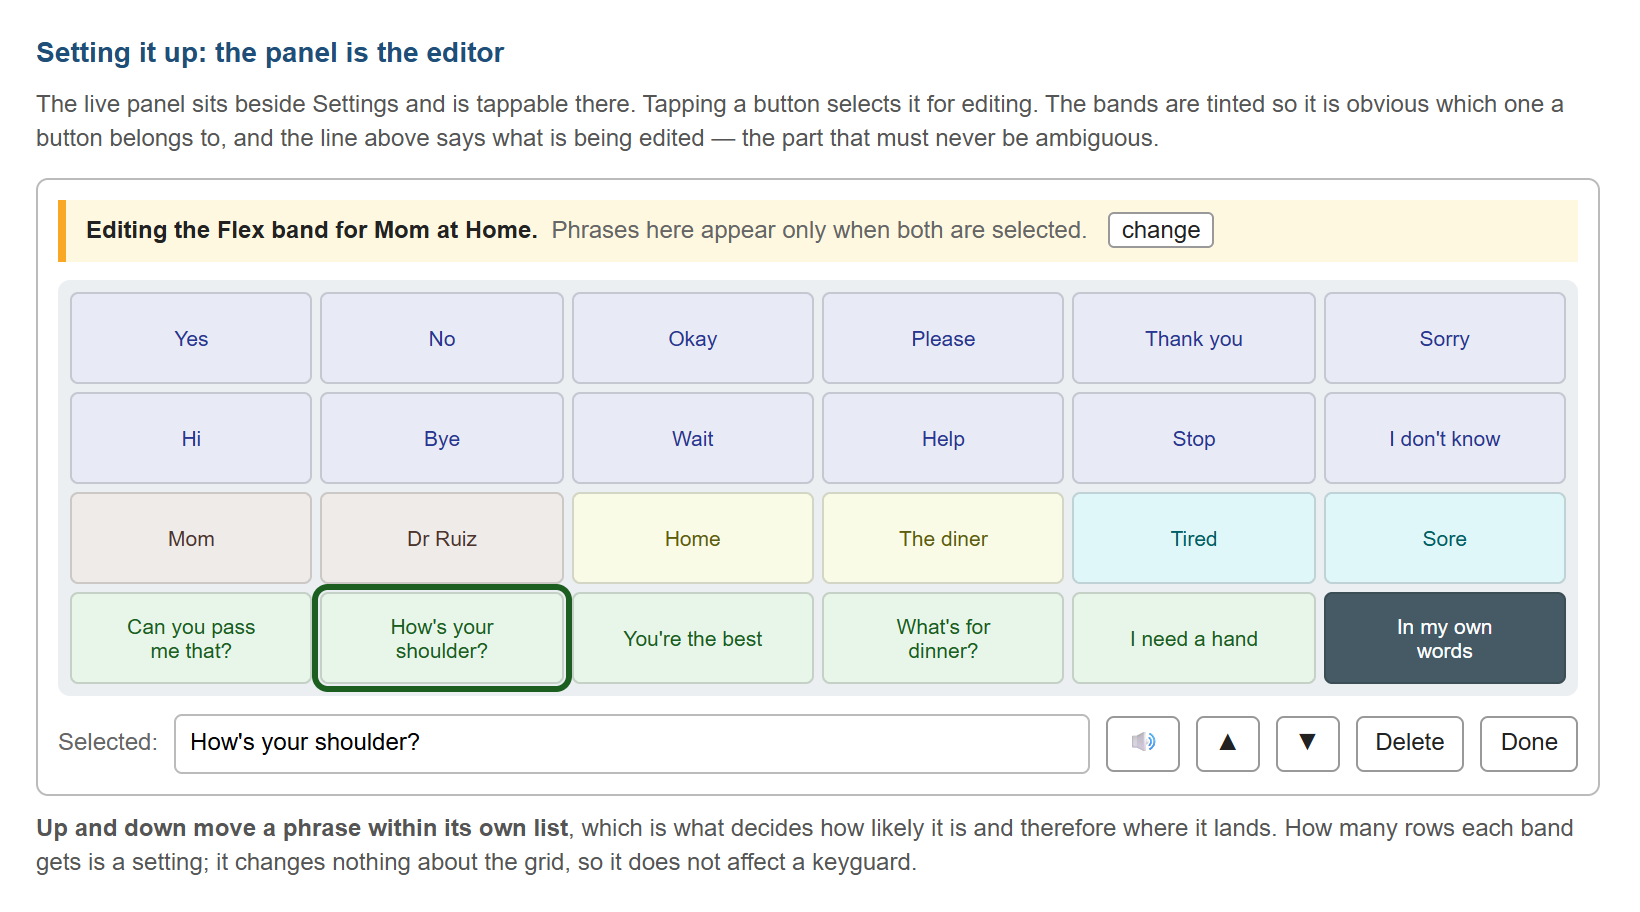
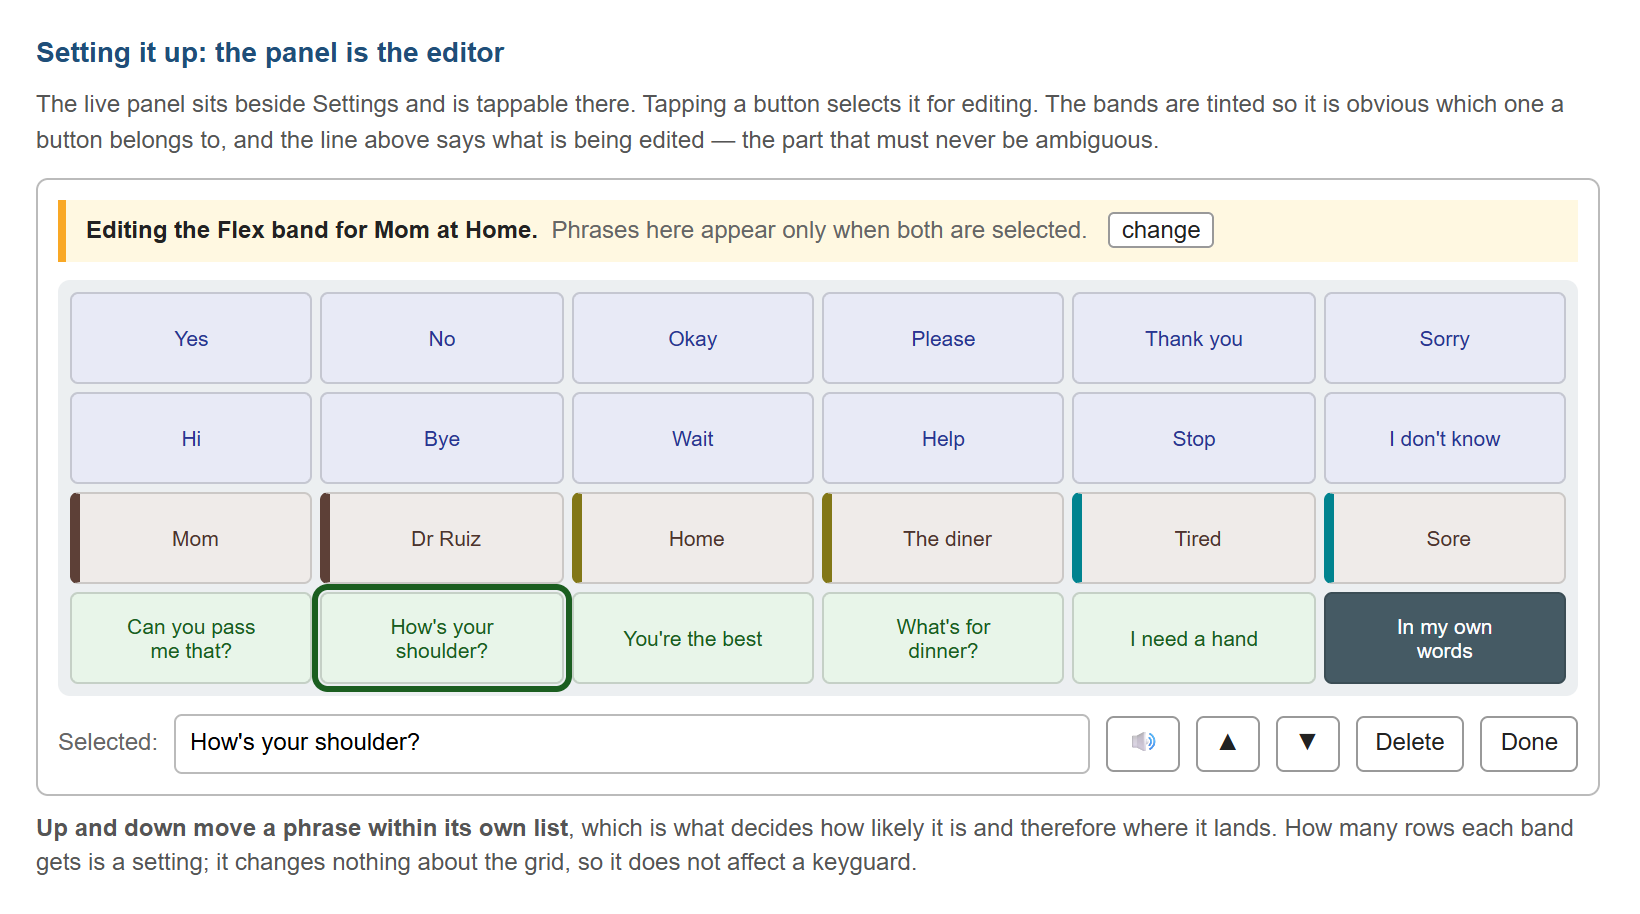
Widen the American-spelling test past the app
Ken found "colour" eight times in a prototype and a figure source written
an hour earlier. The rule was never unclear -- it was unenforced
everywhere except the app, so the documents' own source, the images
inside them, and a prototype about to be sent to therapists had nothing
checking them.

Widening it immediately exposed a bug in the detector: "programming" was
flagged, because programme/program is a real pair but the -ing form
doubles the m in American English too.

One exemption, by exact phrase rather than by file: a test persona is
Irish on purpose, so "the shopping centre" and "on the telly" are his
words. A "colour" in that file still fails.

diff --git a/prototypes/express-bands.html b/prototypes/express-bands.html
@@ -26,8 +26,9 @@
     --always:#e8eaf6; --always-ink:#283593;
     --flex:#e8f5e9;   --flex-ink:#1B5E20;
     --ctx:#efebe9;    --ctx-ink:#4E342E;
-    --place:#f9fbe7;  --place-ink:#5d5d10;
-    --feel:#e0f7fa;   --feel-ink:#006064;
+    --partner-bar:#5D4037;   /* the KIND of Context button, said with a bar */
+    --place-bar:#827717;
+    --feel-bar:#00838F;
     --imow:#455A64;
     --choice:#2E7D32;
     --gap:5px;
@@ -49,13 +50,22 @@
        display:flex;align-items:center;justify-content:center;text-align:center;
        min-height:var(--cell-h,46px);transition:background .12s,box-shadow .12s;overflow:hidden}
   .btn:active{transform:translateY(1px)}
+  /* ONE BACKGROUND PER BAND (Ken, August 23 2026). The band is what the color
+     says; within the Context band the KIND of button is said by a colored bar down
+     its left edge, not by a different fill - so partner, place and feeling read as
+     one family and stop being mistaken for offered choices. */
   .b-always{background:var(--always);color:var(--always-ink)}
   .b-flex{background:var(--flex);color:var(--flex-ink)}
-  .b-ctx{background:var(--ctx);color:var(--ctx-ink)}
-  .b-place{background:var(--place);color:var(--place-ink)}
-  .b-feel{background:var(--feel);color:var(--feel-ink)}
+  .b-ctx,.b-place,.b-feel{background:var(--ctx);color:var(--ctx-ink)}
+  .b-ctx{border-left:5px solid var(--partner-bar)}
+  .b-place{border-left:5px solid var(--place-bar)}
+  .b-feel{border-left:5px solid var(--feel-bar)}
   .b-imow{background:var(--imow);color:#fff}
-  .b-choice{background:var(--choice);color:#fff;border-color:#1B5E20;font-weight:bold}
+  /* The two exceptions, and they are exceptions on purpose: what the partner has
+     just put on the table is immediate and temporary, so it breaks the band's
+     color deliberately. The two kinds share the fill and differ by border. */
+  .b-choice{background:var(--choice);color:#fff;border:2px solid #1B5E20;font-weight:bold}
+  .b-range{background:var(--choice);color:#fff;border:2px dashed #C8E6C9;font-weight:bold}
   .b-empty{background:#fff;border-style:dashed;border-color:#ccc;color:#ccc;cursor:default}
   .b-gap{background:none;border:none;cursor:default;pointer-events:none}
   .on{box-shadow:inset 0 0 0 3px currentColor}
@@ -86,17 +96,47 @@
   .k-f{background:var(--flex);color:var(--flex-ink)}
   .k-c{background:var(--ctx);color:var(--ctx-ink)}
   .warn{color:#B71C1C;font-size:12px;margin-top:6px}
+  .brief{background:#fff;border:1px solid #d8d8d8;border-left:5px solid #1F4E79;border-radius:8px;
+         padding:14px 18px;margin:0 0 16px;max-width:1010px}
+  .brief h2{font-size:15px;color:#1F4E79;margin:0 0 8px}
+  .brief p{margin:0 0 9px;font-size:13.5px;max-width:none}
+  .brief ol{margin:0 0 9px;padding-left:22px;font-size:13.5px}
+  .brief li{margin-bottom:4px}
+  .brief .small{color:#666;font-size:12.5px;margin-bottom:0}
   label.chk{display:block;font-size:12.5px;color:#444;margin-top:6px;cursor:pointer}
 </style>
 </head>
 <body>
 
-<h1>Express Panel bands &mdash; prototype</h1>
-<p class="lede">Throwaway. Nothing here is the app, but the grid is: all 21 keyboard layouts are the real ones, so the
-number of buttons and where &ldquo;In my own words&rdquo; sits are whatever that layout actually gives you. Pick a
-partner and a place and watch the Flex band refill. The two questions this exists to answer are <b>how many rows each
-band should get</b> and <b>whether a band that reorders itself between situations is tolerable</b> &mdash; the figure
-under the panel measures the second one.</p>
+<h1>Express Panel bands &mdash; a sketch to react to</h1>
+
+<div class="brief">
+<h2>What this is, and what we are asking you</h2>
+<p><b>This is not the app.</b> It is a rough working model of one idea, put on screen so it can be tapped and argued
+with instead of described. The phrases in it are invented. Nothing you do here is saved, and nothing is spoken aloud.</p>
+<p><b>The idea.</b> Conversant AAC has a panel of quick phrases that speak the moment they are tapped. Today every
+button on it is fixed. We are considering splitting it into three <i>bands</i>:</p>
+<ol>
+  <li><b>Always</b> &mdash; yes, no, please, help. Never changes, so it can be found without looking.</li>
+  <li><b>Context</b> &mdash; buttons that <b>never speak</b>. They tell the app who the person is talking to, where they
+      are, and how they feel. This is also where the options a partner has just offered appear.</li>
+  <li><b>Flex</b> &mdash; phrases that suit the person in front of them and the place they are in. The only band whose
+      words change.</li>
+</ol>
+<p><b>Worth trying, in this order:</b> pick a <i>Partner</i> and a <i>Place</i> on the right and watch the bottom band
+refill. Then set &ldquo;the partner puts something on the table&rdquo; to <i>three choices</i>. Then change the keyboard
+layout, and the sizes of the bands.</p>
+<p><b>What would help us most.</b> Is a band whose words change between conversations something a client could learn, or
+would it undo the muscle memory that makes a panel fast? How many buttons does the <i>Always</i> band really need? And
+is the color doing enough work to tell the three bands apart at a glance?</p>
+<p class="small">Everything below the fold is instrumentation for us &mdash; the counts of what moved and the warnings
+about sizes. Ignore it or poke at it as you like.</p>
+</div>
+
+<p class="lede">The grid is real: all 21 of the app's keyboard layouts are here, so the number of buttons and where
+&ldquo;In my own words&rdquo; sits are whatever that layout actually gives you. The two questions this exists to settle
+are <b>how many buttons each band should get</b> and <b>whether a band that reorders itself between situations is
+tolerable</b> &mdash; the figure under the panel measures the second one.</p>
 
 <div class="wrap">
 <div class="stage">
@@ -134,6 +174,10 @@ under the panel measures the second one.</p>
     <p style="font-size:12.5px;margin:0 0 6px"><span class="k k-a">Always</span> never changes.</p>
     <p style="font-size:12.5px;margin:0 0 6px"><span class="k k-c">Context</span> never speaks. Offered choices take its front.</p>
     <p style="font-size:12.5px;margin:0 0 6px"><span class="k k-f">Flex</span> the partner's phrases, then the place's, then the general set. Takes whatever is left over.</p>
+    <p class="note"><b>One background color per band.</b> Inside the Context band the kind of button &mdash; partner,
+    place, feeling &mdash; is said by the colored bar down its left edge, not by a different fill.</p>
+    <p class="note"><b>Two deliberate exceptions:</b> what the partner has just put on the table breaks the band's color,
+    because it is immediate and temporary. Offered choices have a solid border; the number button has a dashed one.</p>
     <p class="note"><b>In my own words</b> is the layout's space key and belongs to no band, so it can never be
     pushed off &mdash; exactly as in the app.</p>
     <p class="note"><b>Band shape.</b> <i>rows</i> gives straight edges but a row is 2 buttons on one layout and 13
@@ -316,7 +360,7 @@ function render() {
         silent = true;
         if (!it) { b = el('button', 'btn b-empty', ''); }
         else {
-          const cls = { choice: 'b-choice', range: 'b-choice', partner: 'b-ctx',
+          const cls = { choice: 'b-choice', range: 'b-range', partner: 'b-ctx',
                         place: 'b-place', feeling: 'b-feel' }[it.kind];
           b = el('button', 'btn ' + cls, it.text);
           if ((it.kind === 'partner' && it.text === partner)

diff --git a/scripts/doc-generators/Express Panel Figures.html b/scripts/doc-generators/Express Panel Figures.html
@@ -7,10 +7,12 @@
     display:flex;align-items:center;justify-content:center;border:1px solid rgba(0,0,0,.15);background:#fff}
  .always{background:#e8eaf6;color:#283593}
  .flex{background:#e8f5e9;color:#1B5E20}
- .ctx{background:#efebe9;color:#4E342E}
- .feel{background:#e0f7fa;color:#006064}
- .place{background:#f9fbe7;color:#5d5d10}
- .chip{background:#2E7D32;color:#fff;border:1px solid #1B5E20;font-weight:bold}
+ .ctx,.place,.feel{background:#efebe9;color:#4E342E}
+ .ctx{border-left:5px solid #5D4037}
+ .place{border-left:5px solid #827717}
+ .feel{border-left:5px solid #00838F}
+ .chip{background:#2E7D32;color:#fff;border:2px solid #1B5E20;font-weight:bold}
+ .chip-num{background:#2E7D32;color:#fff;border:2px dashed #C8E6C9;font-weight:bold}
  .imow{background:#455A64;color:#fff}
  .empty{background:#fafafa;color:#c0c0c0;border:1px dashed #c8c8c8}
  .span4{grid-column:span 4}
@@ -52,7 +54,9 @@
 </p>
 <p class="cap"><b>The dividing line that makes this learnable:</b> a button in the Context band never says anything out loud.
 Everywhere else, a button speaks. Feeling does not fill the Flex band; only the partner and the place do.
-<b>The order is by which band must not move</b>, not by importance.</p>
+<b>The order is by which band must not move</b>, not by importance.<br>
+<b>One background color per band.</b> Inside the Context band the kind of button &mdash; partner, place, feeling &mdash;
+is said by the bar down its left edge, not by a different fill.</p>
 </div>
 
 <div class="fig" id="f2">
@@ -75,7 +79,8 @@ Everywhere else, a button speaks. Feeling does not fill the Flex band; only the 
  <p class="cap"><b>"Is it mild, moderate or severe?"</b> The choices take the front of the Context band, in solid color
  &mdash; immediate and temporary, and this is where the conversation is right now. Nothing that speaks has moved:
  Mom, Home and Tired are covered for the turn and come back when it ends. A question asking for a number puts one
- button in the same place, in the same way.</p>
+ button in the same place, with a dashed border rather than a solid one &mdash; the two kinds of transient share a fill
+and differ by their edge.</p>
  </div>
 </div>
 </div>

diff --git a/CLAUDE.md b/CLAUDE.md
@@ -193,6 +193,7 @@ Ken collected Conversation Analysis (CA) literature and had it synthesized into 
 **Document convention (Ken, June 14 2026; restated August 11 2026): AMERICAN ENGLISH SPELLING ONLY** — "color", "center", "gray", "personalized", "practice", "judgment", "canceled", "maximize", not "colour", "centre", "grey", "personalised", "practise", "judgement", "cancelled", "maximise".
 - **Scope is everything a user reads or hears, not just the `.docx`.** That means every generated document, `CHANGELOG.md` (which becomes the in-app "What's new" notes), `settings-help.json` (which the app **speaks aloud**), and any on-screen string in `app/`. **Code comments are out of scope** — same split as the plain-language rule: their reader is the next developer.
 - **⚠ THIS RULE WAS NOT HOLDING, which is why it is now stated with its failure mode.** Ken asked for it to be noted on August 11 2026; it had been recorded since June 14 2026 and was being broken in **eight documents plus the spoken help and the release notes** — including "colour" in text written into both User Manuals *that same day*, and "practise" in four spoken-help entries the app reads out. The lesson is not that the rule was unclear: it is that **nothing checks it**, and British spellings arrive unnoticed one word at a time.
+- **⚠ THE TEST'S SCOPE WAS TOO NARROW AND IT SHOWED (Ken, August 23 2026, finding “colour” eight times in a prototype and a figure source written an hour earlier).** It covered the app and the release notes, so **everything else a person reads had nothing checking it** — the documents' own source, the images inside them, and a prototype about to be emailed to a team of therapists. **The rule was never unclear; it was unenforced everywhere except the app.** Now also scanned: **string literals in `scripts/doc-generators/*.js`** (that prose IS the documents) and the **visible markup of the `.html` beside them** (captured into the figures), plus **`prototypes/`** — which is MORE exposed than the app, not less, because it goes to people outside the project. **⚠ AND THE WIDENING IMMEDIATELY EXPOSED A DETECTOR BUG worth keeping: “programming” was flagged.** “programme”→“program” is a real pair, but the **-ing and -ed forms double the m in American English too**, so the stem-plus-suffix rule matched a correct word. Any entry whose American form doubles a consonant has the same trap. **One deliberate exemption, listed by exact phrase rather than by file:** a test persona is Irish on purpose (Dublin, a GAA club, Clontarf), so *the shopping centre* and *on the telly* are his words — Americanizing them would make the persona false, exactly as it would a cited institution. A “colour” in that file still fails.
 - **ENFORCED BY `tests/american-spelling.test.mjs`** over everything in git that a user reads or hears: `CHANGELOG.md`, `settings-help.json`, `app/index.html` and the **string literals** in `app/js/*.js` (literals, not whole files, so a comment saying "blue-grey" cannot fail the build). It caught three more the moment it was written — "initialised" and "neighbouring" in prompt text, "Cancelled." in an error the user can read in Troubleshooting. **The `.docx` are NOT covered** — they are git-ignored, so a test cannot depend on them; sweep those by hand during "sync docs".
 - **⚠ IT IS NOT ONLY SPELLING — BRITISH VOCABULARY COUNTS, AND IT WENT UNNOTICED FOR MONTHS (Ken, August 22 2026, finding “Mum” and “the surgery” in a design document).** Every entry in the original list is a MISSPELLING, so a correctly spelled wrong word sailed past both the test and the eye. **The near-misses make this mostly unautomatable and the reason is worth stating: most British vocabulary is also good American vocabulary with a different meaning** — *surgery* is an operation, *tablets* are iPads, a *torch* burns, a *boot* is footwear, a *flat* is level, a *lift* is a ride, a *chemist* does chemistry. So `tests/american-spelling.test.mjs` gained a **short** `BRITISH_WORDS` list of words wrong in EVERY American reading (mum, lorry, petrol, fortnight, maths, car park, postcode, anticlockwise, …) and **can never catch “the surgery”**. That half is a person reading the sentence. **When writing examples, use American settings and names**: Mom not Mum, the clinic or the doctor's office not the surgery, store clerk not shop staff, pills not tablets, diner not cafe.
 - **The word list is EXPLICIT, never a pattern, and that is not laziness.** `\w+ise` would condemn *advertise, exercise, surprise, compromise, supervise, promise, devise*, which are -ise on both sides of the Atlantic; a doubled-consonant rule would condemn *controlled* and *compelled*, which double in American English too. Each entry is a word we mean. **A stem ending in -e needs its own alternative**, because it drops that -e before -ing: "practise" + "ing" is *practising*, which a stem-plus-suffix match misses — one of the two words the hand sweep let through.
